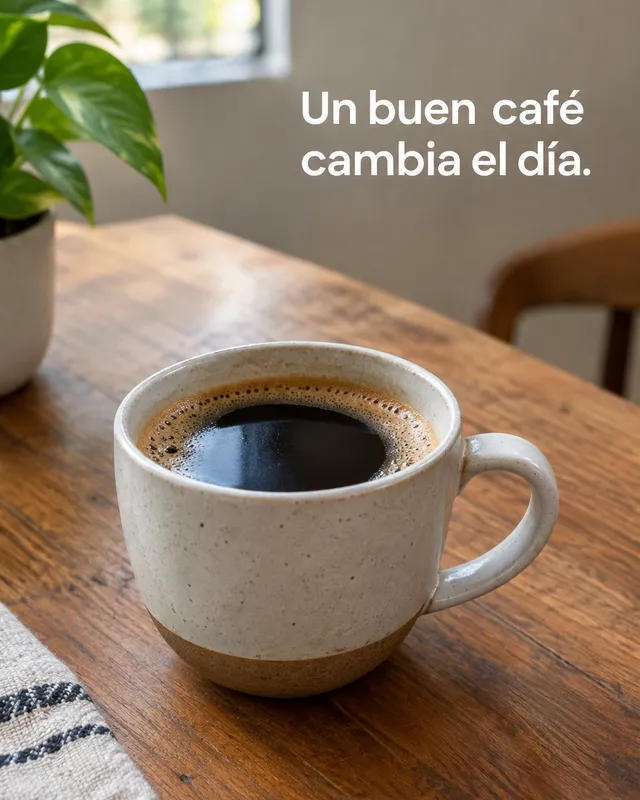
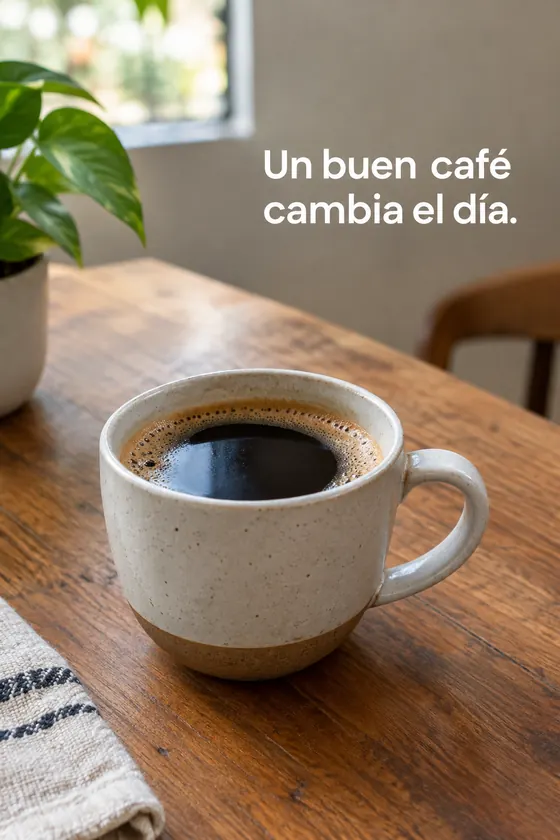
Crear campaña: fotos completas en las tarjetas, sin notas ni Apariencia, tu texto antes del producto
Formatos, Variedad visual y Texto dentro de la imagen muestran la imagen entera
(2:3, webp optimizado). Se quitan las notas de Objetivo y Enfoque y la sección
Apariencia de las fotos (ya no se le manda a Claude). En Mensaje, «Cuéntalo en
tus palabras» va antes de «¿Es sobre un producto?».

Claude-Session: https://claude.ai/code/session_01RhjtGcA3XyfxsMtKcnhPWZ

diff --git a/igbot/nueva_campana.py b/igbot/nueva_campana.py
@@ -146,13 +146,6 @@ VISUAL = {
     "graficos": ("Ilustraciones y gráficos", "Íconos y diagramas para explicar ideas.", "#2d2640"),
     "propias": ("Tus propias fotos", "Usamos tus fotos de Tu marca y del producto como referencia.", "#4a2312"),
 }
-APARIENCIA = {
-    "natural": ("Natural y espontánea", "Como tomada con el celular, con luz natural.", "#3a2f25"),
-    "profesional": ("Profesional y cuidada", "Luz pareja, composición ordenada, acabado pulido.", "#1f3029"),
-    "creativa": ("Creativa y llamativa", "Colores y composiciones con más energía.", "#4a2312"),
-    "premium": ("Premium", "Detalles elegantes y luz de estudio.", "#26262a"),
-    "ia": ("Que la IA decida", "Se adapta a la idea de cada post.", "#2d2640"),
-}
 TEXTO = {  # clave: (título, descripción, color)
     "nada": ("Sin texto", "La imagen comunica la idea por sí sola.", "#26262a"),
     "minimo": ("Texto mínimo", "Una frase muy breve o unas pocas palabras.", "#3a2f25"),
@@ -183,7 +176,7 @@ def inicial(marca: dict) -> dict:
     return {"objetivo": "", "mensajes": [], "producto": "", "accion": "conocer", "descuento": "", "desde": "",
             "hasta": "", "condicion": "", "texto": "", "con_producto": False, "con_texto": False, "preguntan": True, "funciona": False,
             "mezcla": campanas.MEZCLA_INICIAL, "formatos": ["foto", "titular"],
-            "visual": ["productos", "personas", "propias"], "apariencia": "natural", "texto_img": "minimo",
+            "visual": ["productos", "personas", "propias"], "texto_img": "minimo",
             "variedad": "coherencia", "armado": modo_de(marca), "nombre": "", "inicio": lunes.isoformat(),
             "semanas": 2, "n_posts": 8, "dias": [0, 1, 2, 3, 4], "horarios": ["manana", "noche"], "hechos": []}
 
@@ -284,8 +277,7 @@ async def a_campana(c: Cuenta, b: dict) -> dict:
                 producto += f" ({b['condicion']})"
         producto += "."
     visual = ", ".join(VISUAL[k][0] for k in b["visual"] if k in VISUAL)
-    estilo = (f"Apariencia: {APARIENCIA[b['apariencia']][0]} ({APARIENCIA[b['apariencia']][1]}). Texto dentro de la"
-              f" imagen: {TEXTO[b['texto_img']][0].lower()}. Variedad visual: {VARIEDAD[b['variedad']][0]}"
+    estilo = (f"Texto dentro de la imagen: {TEXTO[b['texto_img']][0].lower()}. Variedad visual: {VARIEDAD[b['variedad']][0]}"
               f" ({VARIEDAD[b['variedad']][1]})")
     inicio = date.fromisoformat(b["inicio"])
     return {"nombre": b["nombre"].strip() or f"{obj['titulo']} · {campanas.fecha_larga(b['inicio'])}"[:campanas.MAX_NOMBRE],
@@ -350,7 +342,6 @@ def del_form(f, paso: int, b: dict, objetivos: list[dict], mensajes: list[dict],
         b["visual"] = _lista(f, "visual", VISUAL)
         return "" if b["visual"] else "Elige al menos una cosa que se vea."
     if paso == 6:
-        b["apariencia"] = g("apariencia") if g("apariencia") in APARIENCIA else b["apariencia"]
         b["texto_img"] = g("texto_img") if g("texto_img") in TEXTO else b["texto_img"]
         b["variedad"] = g("variedad") if g("variedad") in VARIEDAD else b["variedad"]
         b["armado"] = g("armado") if g("armado") in ARMADO else b["armado"]
@@ -382,7 +373,7 @@ def faltan(b: dict) -> list[int]:
 # --- páginas ---
 
 def img(seccion: str, clave: str, color: str, texto: str = "", alta: bool = False) -> str:
-    """alta: 4:5 como un post (los formatos se ven completos); si no, 16:10."""
+    """alta: la imagen completa, vertical (2:3); si no, 16:10."""
     archivo = f"{seccion}-{clave}.webp"
     fondo = f"{color} url(/panel/static/tarjetas/campana/{archivo})" if (TARJETAS / archivo).is_file() else color
     return f'<span class="wiz-img{" alta" if alta else ""}" style="--fondo:{fondo}">{"" if (TARJETAS / archivo).is_file() else escape(texto)}</span>'
@@ -450,9 +441,7 @@ def paso_1(b: dict, objetivos: list[dict]) -> str:
                 "Elige el resultado que buscas. Las opciones salen de tu perfil de empresa, así que hablan de tu"
                 " negocio.")
             + f'<div class="wiz-ops">{ops}</div>'
-            + nota("Cómo lo usamos:", "el objetivo decide qué tipo de posts salen. Con más interacción, por ejemplo,"
-                   " hay más preguntas y «Esto o aquello», y cada post trae lista su regla de «Comenta y te"
-                   " respondemos».") + pie(1))
+            + pie(1))
 
 
 def paso_2(b: dict, mensajes: list[dict], prods: list[dict], objetivos: list[dict]) -> str:
@@ -483,11 +472,12 @@ def paso_2(b: dict, mensajes: list[dict], prods: list[dict], objetivos: list[dic
     return (cab(2, "¿Qué quieres comunicar?",
                 (f"Ideas pensadas para «{escape(obj)}». " if obj else "")
                 + f"Es el tema de la campaña: lo que la gente se va a llevar en la cabeza. Elige hasta {MAX_MENSAJES}.")
-            + f'<div class="wiz-ops">{ops}</div>' + producto
+            + f'<div class="wiz-ops">{ops}</div>'
             + '<div class="wiz-bloque">' + abre("con_texto", "Cuéntalo en tus palabras", b.get("con_texto") or b["texto"])
             + '<p class="ayuda">Un dato, una fecha o una idea que no debe faltar.</p>'
             f'<textarea name="texto" rows="2" maxlength="{MAX_TEXTO}" aria-label="Tu idea" placeholder="Ej. Temporada'
-            f' de otoño: queremos más visitas entre semana.">{escape(b["texto"])}</textarea></div></div>' + pie(2))
+            f' de otoño: queremos más visitas entre semana.">{escape(b["texto"])}</textarea></div></div>' + producto
+            + pie(2))
 
 
 def paso_3(b: dict, objetivos: list[dict]) -> str:
@@ -499,8 +489,7 @@ def paso_3(b: dict, objetivos: list[dict]) -> str:
     return (cab(3, "¿De qué van a tratar tus posts?",
                 f"Elige uno o varios (hasta {MAX_ENFOQUES}). Los posts de la campaña se reparten entre ellos.")
             + f'<div class="wiz-ops tres">{ops}</div>'
-            + nota("Cómo lo usamos:", "cada post toma uno de estos enfoques, con lo que sabemos de tu negocio y lo que"
-                   " elegiste en Mensaje.") + pie(3))
+            + pie(3))
 
 def paso_4(b: dict, fotos: int) -> str:
     sin_collage = fotos < campanas.MIN_FOTOS_COLLAGE
@@ -528,18 +517,14 @@ def paso_5(b: dict) -> str:
 
 
 def paso_6(b: dict) -> str:
-    apariencia = "".join(op("apariencia", k, t, d, marcada=b["apariencia"] == k, imagen=img("apariencia", k, color, t))
-                         for k, (t, d, color) in APARIENCIA.items())
-    variedad = "".join(op("variedad", k, t, d, marcada=b["variedad"] == k, imagen=img("variedad", k, color, t),
+    variedad = "".join(op("variedad", k, t, d, marcada=b["variedad"] == k, imagen=img("variedad", k, color, t, alta=True),
                           em="Recomendado" if k == "coherencia" else "")
                        for k, (t, d, color) in VARIEDAD.items())
     return (cab(6, "¿Cómo quieres que se vea esta campaña?",
                 "Solo cambia esta campaña. Tus colores, tu tipografía y tu logo siguen siendo los de Tu marca.")
             + '<h3 class="wiz-sub">Variedad visual</h3><p class="ayuda">Qué tan distintas se ven las fotos entre'
             ' sí: el lugar, el encuadre y la luz.</p>'
-            f'<div class="wiz-ops dos">{variedad}</div>'
-            '<h3 class="wiz-sub">Apariencia de las fotos</h3><p class="ayuda">Elige una.</p>'
-            f'<div class="wiz-ops">{apariencia}</div>'
+            f'<div class="wiz-ops cuatro">{variedad}</div>'
             '<h3 class="wiz-sub">Texto dentro de la imagen</h3><p class="ayuda">No es el pie de foto: es lo que va'
             ' escrito sobre la imagen.</p><div class="wiz-ops cuatro">'
             + "".join(op("texto_img", k, t, d, marcada=b["texto_img"] == k, imagen=img("texto", k, color, t, alta=True))
@@ -594,7 +579,7 @@ async def resumen(c: Cuenta, b: dict, objetivos: list[dict], mensajes: list[dict
         ("Objetivo", obj, 1, False), ("Mensaje", msgs + (f" · «{b['texto']}»" if b["texto"] else ""), 2, False),
         ("Producto", producto, 2, True), ("Enfoque del contenido", enfoques, 3, False),
         ("Formatos", " · ".join(FORMATOS[k][0] for k in b["formatos"] if k in FORMATOS), 4, False),
-        ("Estilo y variedad", f"{APARIENCIA[b['apariencia']][0]} · {TEXTO[b['texto_img']][0]} ·"
+        ("Estilo y variedad", f"{TEXTO[b['texto_img']][0]} ·"
          f" {VARIEDAD[b['variedad']][0]} · {ARMADO[b['armado']]}", 6, False),
         ("Cantidad y fechas", f"{escape(b['nombre']) or 'Sin nombre'} · {b['n_posts']} posts ·"
          f" {campanas.de_a(ini, fin)} · {dias} · {horas}", 7, True)]

diff --git a/tests/test_nueva_campana.py b/tests/test_nueva_campana.py
@@ -32,7 +32,7 @@ def llenar(client, objetivo="interaccion"):
     paso(client, 3, enfoques=["consejos", "historias"])
     paso(client, 4, formatos=["texto", "titular"])
     paso(client, 5, visual=["productos"])
-    paso(client, 6, apariencia="natural", texto_img="minimo", variedad="coherencia", armado="plantilla")
+    paso(client, 6, texto_img="minimo", variedad="coherencia", armado="plantilla")
     return paso(client, 7, nombre="Otoño", inicio=LUNES.isoformat(), semanas="1", n_posts="6",
                 dias=["0", "2", "4"], horarios=["manana"])
 
@@ -70,6 +70,8 @@ def test_el_asistente_de_punta_a_punta(cliente, monkeypatch):
     r = client.get(f"{URL}?paso=2")
     assert "Latte de calabaza · $75 MXN" in r.text and 'name="accion" value="promo" checked' in r.text
     assert 'name="con_producto" value="1" checked' in r.text and 'name="con_texto" value="1">' in r.text
+    assert r.text.index('name="con_texto"') < r.text.index('name="con_producto"')  # primero tus palabras
+    assert "Cómo lo usamos" not in client.get(f"{URL}?paso=1").text + client.get(f"{URL}?paso=3").text
     # Sin el check, el producto y tu texto no cuentan aunque vengan llenos.
     paso(client, 2, ir=1, mensajes=["producto"], producto="p1", texto="Otoño")
     b = json.loads(client.portal.call(c.store.get, "campana_borrador"))
@@ -410,7 +412,7 @@ def test_la_variedad_llega_al_brief_al_plan_y_a_los_posts(cliente, monkeypatch):
     client.portal.call(c.store.set, "productos", json.dumps([PRODUCTO]))
     r = llenar(client)
     paso_6 = client.get(f"{URL}?paso=6").text
-    assert paso_6.index("Variedad visual") < paso_6.index("Apariencia de las fotos")
+    assert "Variedad visual" in paso_6 and "Apariencia de las fotos" not in paso_6
     assert all(t in paso_6 for t in ("Consistente", "Equilibrado", "Diverso", "Creativo"))
     assert "tarjetas/campana/variedad-diverso.webp" in paso_6 and "tarjetas/campana/texto-info.webp" in paso_6
     assert "Sin texto" in paso_6 and "Una frase principal que destaque el mensaje." in paso_6

diff --git a/igbot/panel.py b/igbot/panel.py
@@ -852,7 +852,7 @@ select,input[type=date],input[type=number]{color:var(--negro);background:var(--c
 .wiz-sub{margin:1.75rem 0 .2rem;font-size:1.05rem}.wiz-sub+.ayuda{margin:0 0 .8rem}
 .wiz-ops{display:grid;grid-template-columns:repeat(auto-fit,minmax(14.5rem,1fr));gap:.85rem}
 .wiz-ops.tres{grid-template-columns:repeat(3,minmax(0,1fr))}
-.wiz-ops.cuatro{grid-template-columns:repeat(4,minmax(0,1fr))}.wiz-img.alta{aspect-ratio:4/5}
+.wiz-ops.cuatro{grid-template-columns:repeat(4,minmax(0,1fr))}.wiz-img.alta{aspect-ratio:2/3}
 .wiz-op{position:relative;display:flex;flex-direction:column;border:1px solid var(--linea-clara);border-radius:1rem;overflow:hidden;cursor:pointer;background:var(--suave,var(--blanco));margin:0;font-weight:400;transition:border-color .12s,box-shadow .12s}
 .wiz-op input{position:absolute;opacity:0;pointer-events:none}
 .wiz-op:hover{border-color:#6A6678}
